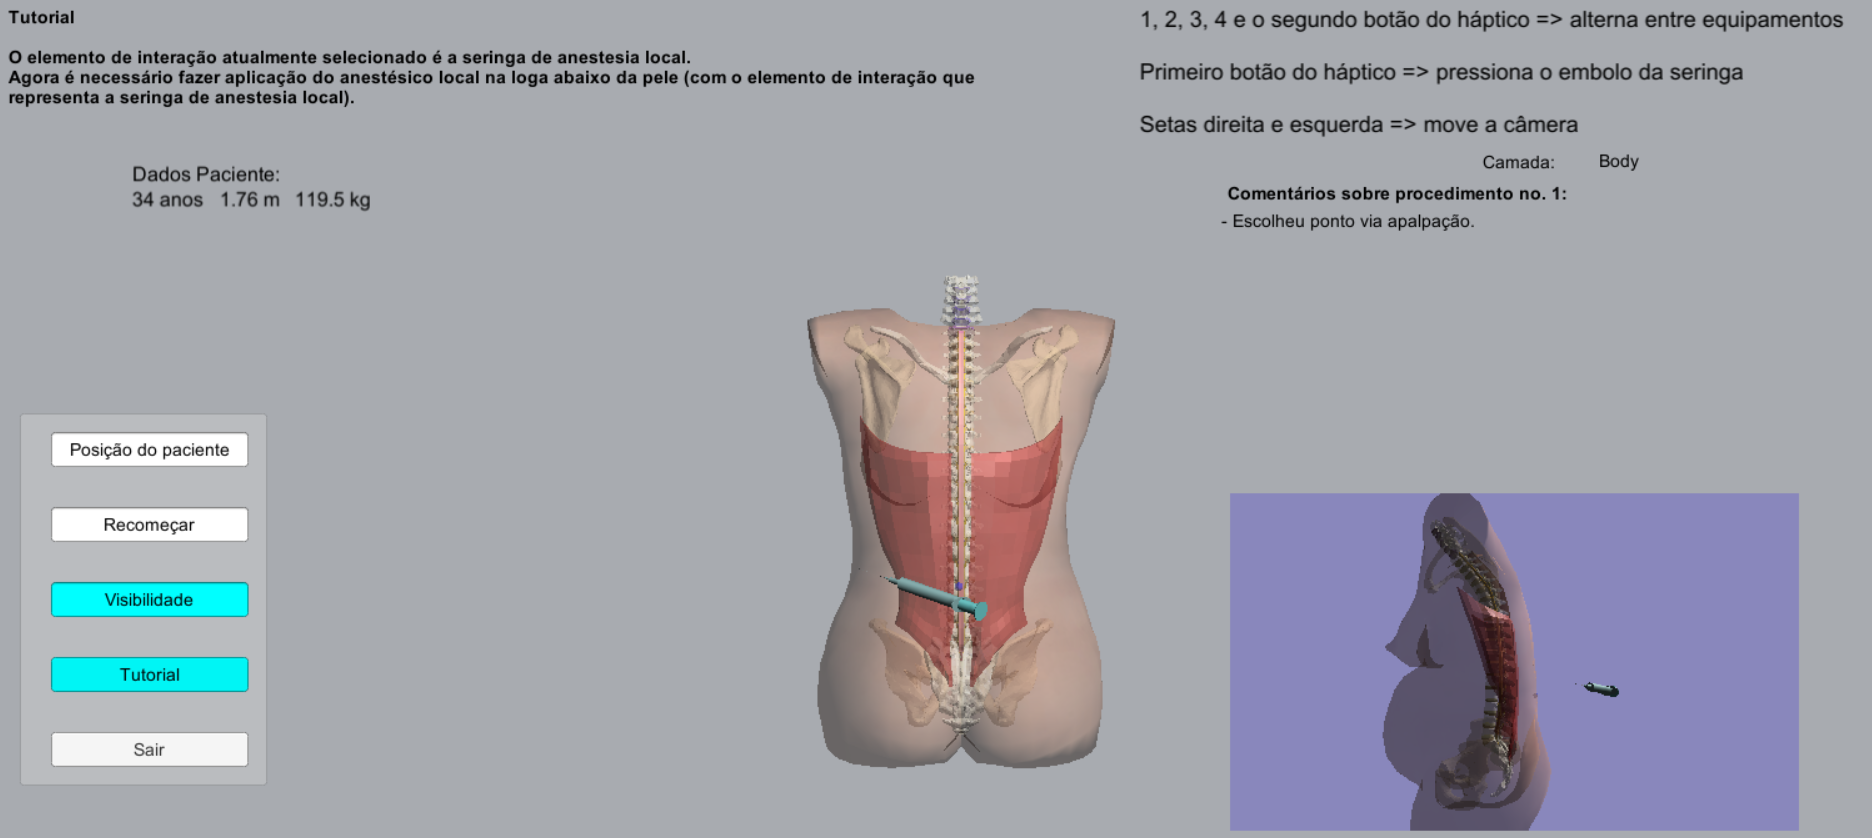
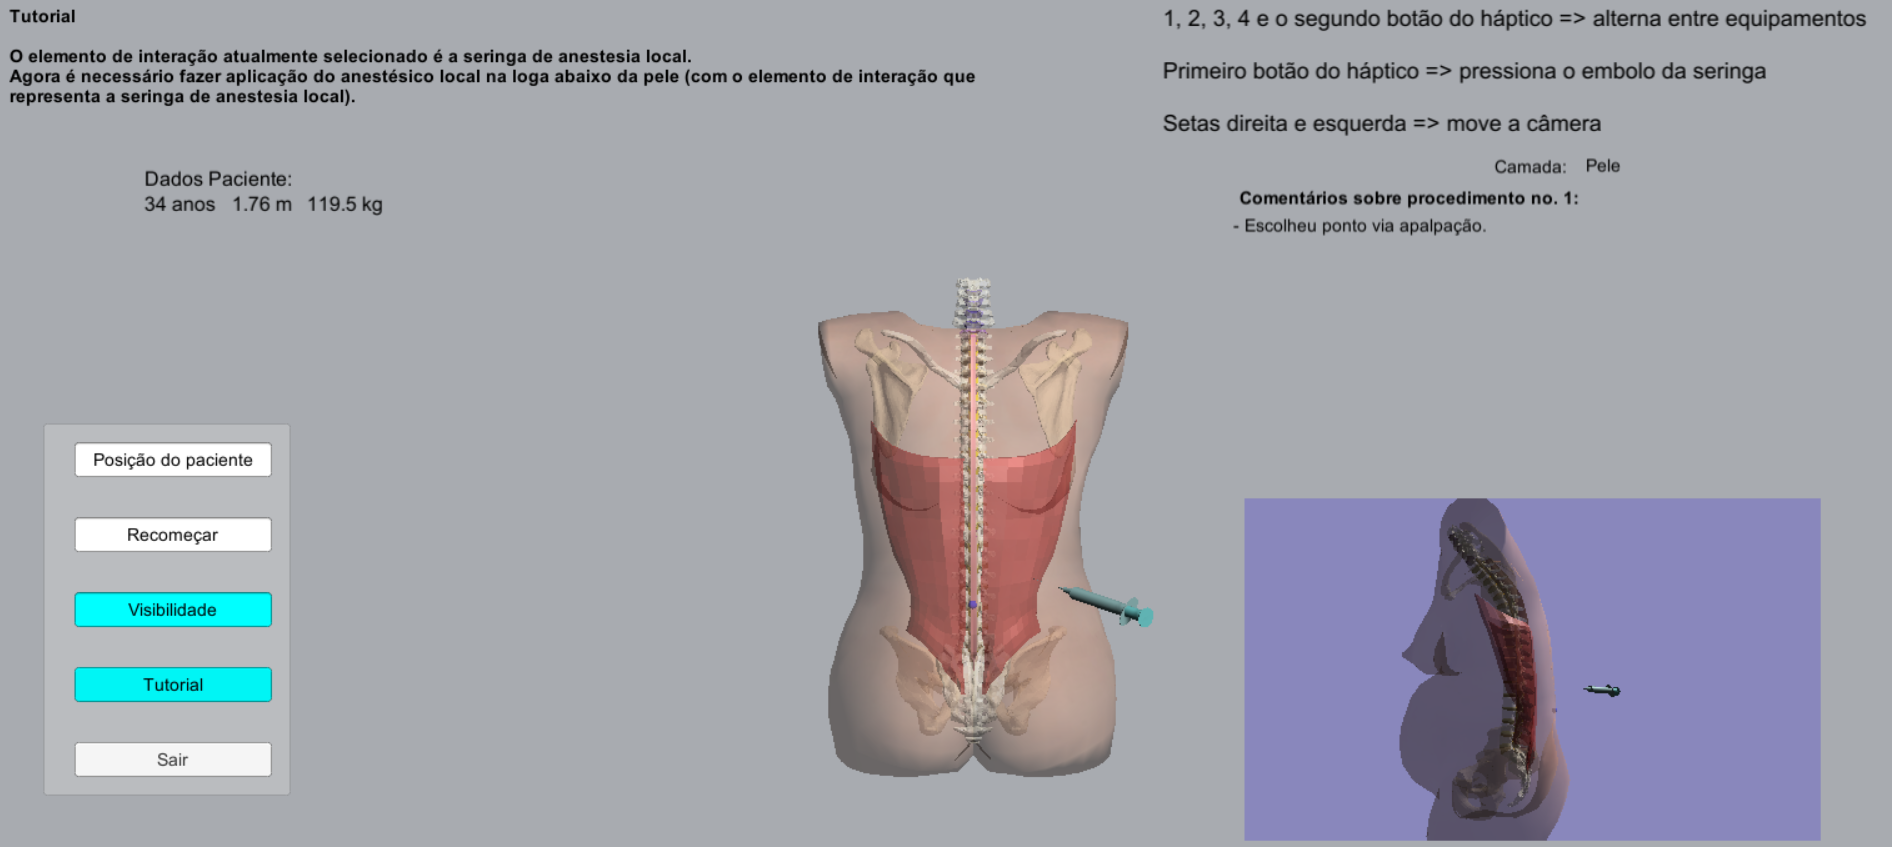
Versão final enviada para a banca

diff --git a/capitulos/cap4.tex b/capitulos/cap4.tex
@@ -275,3 +275,12 @@ A Figura \ref{fig:sistemaExecucaoTutorialAnestesiaLocal} ilustra o texto que é 
     \caption{Tela do sistema no modo tutorial após a anestesia local ter sido efetuada.}
     \label{fig:sistemaExecucaoTutorialRaqui}
 \end{figure}
+
+Na Figura \ref{fig:sistemaExecucaoVisibilidadeCamadaAtual} destacamos na tela do sistema a parte da informação sobre o tecido (camada) do corpo que foi tocada por último pelo elemento de interação (agulha de raquianestesia para esta imagem). Esta informação é exibida sempre que a transparência das camadas está habilitada. Esta informação é útil no treinamento ao possibilitar o reconhecimento das sensações experienciadas ao tocar (e transpassar) cada camada pela agulha de raquianestesia. Isto serve tanto para o treinamento de novos anestesistas inexperientes quanto para a validação destas sensações por anestesistas experientes que é um próximo passo natural na continuação do desenvolvimento deste ambiente de treinamento.
+
+\begin{figure}[ht!]
+    \centering
+    \includegraphics[width=\textwidth]{capitulos/figuras/sistemaExecucaoCamadaAtual.png} 
+    \caption{Tela do sistema com transparência ativada com informação da camada atualmente tocada pela agulha marcada em vermelho.}
+    \label{fig:sistemaExecucaoVisibilidadeCamadaAtual}
+\end{figure}
